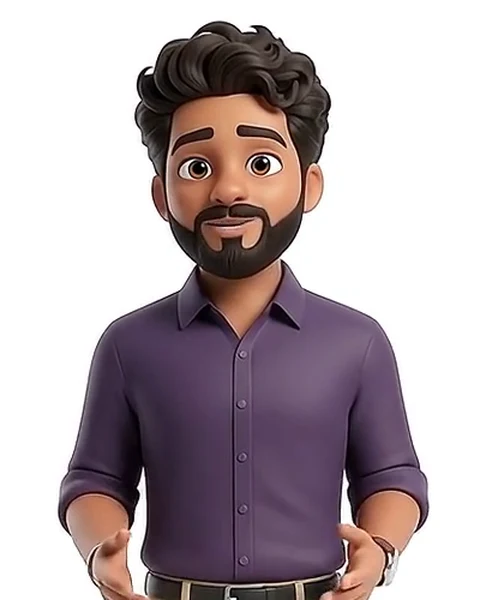
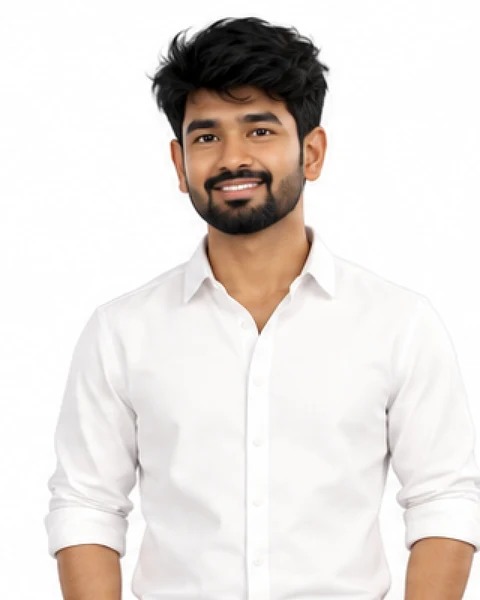
feat(id-card): use Kavin's photo; derive strap and band text from profile data

diff --git a/src/components/ui/IdCard.tsx b/src/components/ui/IdCard.tsx
@@ -2,7 +2,7 @@
 import { useEffect, useRef, useState, type KeyboardEvent, type PointerEvent } from "react";
 import Image from "next/image";
 import { asset } from "@/lib/asset";
-import { EDUCATION, PROFILE, PROJECTS } from "@/lib/data";
+import { EDUCATION, HERO_TITLE, PROFILE, PROJECTS } from "@/lib/data";
 import { prefersReducedMotion } from "@/lib/hooks";
 
 /* Deterministic barcode bar widths from a seed string (decorative only). */
@@ -19,6 +19,8 @@ function bars(seed: string): { x: number; w: number }[] {
   return out;
 }
 const BARS = bars(PROFILE.name);
+const STRAP_TEXT = `${PROFILE.name} \u00b7 ${PROFILE.role}`.toUpperCase();
+const BAND_TEXT = `${HERO_TITLE.accent} Profile`.toUpperCase();
 
 const BACK_LINES = [
   `${PROFILE.role} at ${PROFILE.company}`,
@@ -96,7 +98,7 @@ export default function IdCard() {
               <span key={k}>
                 {Array.from({ length: 6 }).map((_, i) => (
                   <b key={i}>
-                    AJAY B <i>·</i> SYSTEMS ENGINEER III (SRE) <i>·</i>
+                    {STRAP_TEXT} <i>·</i>
                   </b>
                 ))}
               </span>
@@ -129,7 +131,7 @@ export default function IdCard() {
             <div className="idc-face idc-front" aria-hidden={flipped}>
               <div className="idc-band">
                 <span className="idc-slot" />
-                <span className="mono">SRE PROFILE</span>
+                <span className="mono">{BAND_TEXT}</span>
               </div>
               <div className="idc-photo">
                 <div className="idc-halo" />
